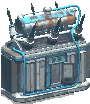
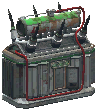
Updated the transformers and some other points

diff --git a/points.js b/points.js
@@ -775,35 +775,35 @@ const points = [
         "xPos": 64,
         "yPos": 64.3
     },
-    { // TR_0
+    {
         "name": "Transformer #1",
-        "description": "Target with <i>sv.target TF_0</i>.<br>The building is chaotically filled with supplies and explosive items. There is only one bench outside.",
-        "related_images" : [],
-        "category": "Transformers",
-        "icon": "./icons/transformer0.png",
-        "positioning": "positioned_on_top",
-        "xPos": 396.7,
-        "yPos": 199.4
-    },
-    { // TR_1
-        "name": "Transformer #2",
-        "description": "Target with <i>sv.target TF_1</i>.<br>Some trash lays around. A shelf and two supply boxes are in the building. There are two benches outside.",
+        "description": "Target with <i>sv.target TF_1</i>.<br>Supplies and explosive items are strewn throughout the building. Inside, you can find some partially-filled gas cans, a toolbox, and a lighter and molotov recipe on the desk.",
         "related_images" : [],
         "category": "Transformers",
         "icon": "./icons/transformer1.png",
         "positioning": "positioned_on_top",
-        "xPos": -550,
-        "yPos": 232.3
+        "xPos": 396.1,
+        "yPos": 200
     },
-    { // TR_2
-        "name": "Transformer #3",
-        "description": "Target with <i>sv.target TF_2</i>.<br>There is trash strewn about outside and the building is filled with garbage. There are two benches outside.",
+    {
+        "name": "Transformer #2",
+        "description": "Target with <i>sv.target TF_2</i>.<br>Some trash lays around. You can find scrap and some almost-full gas cans inside. There are two benches outside.",
         "related_images" : [],
         "category": "Transformers",
         "icon": "./icons/transformer2.png",
         "positioning": "positioned_on_top",
-        "xPos": -399.3,
-        "yPos": -473.6
+        "xPos": -546,
+        "yPos": 234
+    },
+    {
+        "name": "Transformer #3",
+        "description": "Target with <i>sv.target TF_3</i>.<br>Garbage litters the area and the door is boarded up, which forces you to enter with a carefully-placed crouch jump, a crowbar, or by using the vent on the side of the building. A full gas can and some batteries can be found in the supply room.",
+        "related_images" : [],
+        "category": "Transformers",
+        "icon": "./icons/transformer3.png",
+        "positioning": "positioned_on_top",
+        "xPos": -396.5,
+        "yPos": -480.1
     },
     // Halloween Pumpkins
     {
@@ -958,16 +958,6 @@ const points = [
         "yPos": 22.5
     },
     {
-        "name": "Shovel",
-        "description": "Behind the transformer, you can access it by opening the vent on the side of the building.",
-        "related_images" : [],
-        "category": "",
-        "icon": "./icons/shovel.png",
-        "positioning": "positioned_on_top",
-        "xPos": -400.2,
-        "yPos": -473.8
-    },
-    {
         "name": "Cacti",
         "description": "Dug up between the sign pole and the boulder",
         "related_images" : ['./images/cacti_1.png'],
@@ -1056,5 +1046,15 @@ const points = [
         "positioning": "positioned_on_top",
         "xPos": 175.8,
         "yPos": -460.6
+    },
+    {
+        "name": "Bike Helmet",
+        "description": "The bike helmet protects your head, which can decrease your damage taken from impacts. You can reach it by climbing up or grappeling down the cliff using a hook.",
+        "related_images" : ['./images/helmet1.png', './images/helmet2.png', './images/helmet3.png'],
+        "category": "",
+        "icon": "./icons/helmet2.png",
+        "positioning": "positioned_on_top",
+        "xPos": -50.6,
+        "yPos": 630
     }
 ]

diff --git a/lines.js b/lines.js
@@ -14,20 +14,20 @@ const lines = [
         "linethickness": 2,
         "coordinates": [[224, 476.5], [229.9, 478], [235.5, 480.5], [241.2, 482.3], [251, 489.5], [254.9, 494.3], [261.6, 504.4], [266.8, 515.4], [270, 526.9], [276, 526.9], [284.5, 535.7], [279.3, 546.4], [277.7, 552.5], [279.6, 558.2], [279.2, 564.2], [280.4, 570.2], [278.7, 576], [274, 580], [262.3, 582.5], [258, 586.8], [250.9, 596.7], [246.2, 600.6], [238.1, 609.7], [234.7, 615], [229, 617.2], [223, 617.6], [211.7, 613.5], [205.8, 612.6], [194.5, 608], [188.5, 608.3], [188, 602.4], [183.3, 598.5], [172.6, 593.4], [169.2, 588.6], [164.6, 584.7], [159.5, 581.8], [152.1, 572.6], [149, 561], [146.8, 555.4], [143.8, 550.4], [142.1, 544.6], [142.1, 538.8], [143.7, 526.8], [145.1, 521], [147.1, 515.6], [153.5, 505.4], [157.9, 501.2], [159.8, 495.6], [163.7, 491], [168.5, 487.5], [172.7, 482.9], [178.5, 483.7], [183.8, 486.4], [189.8, 485.7], [201, 481], [206.3, 478], [218, 476], [224, 476.5]]
     },
-    { // TR_0
-        "color": "rgb(81, 83, 80)",
-        "linethickness": 2,
-        "coordinates": [[64, 64.3], [72.1, 71.5], [174.8, 66.8], [279.8, 67.3], [313.7, 131.2], [388.9, 196.8]]
-    },
     { // TR_1
         "color": "rgb(81, 83, 80)",
         "linethickness": 2,
-        "coordinates": [[64, 64.3], [49, 71.5], [-92.1, 79.9], [-214.7, 167.5], [-319.8, 254.1], [-426, 276.5], [-557.7, 237.5]]
+        "coordinates": [[64, 64.3], [72.1, 71.5], [174.8, 66.8], [279.8, 67.3], [313.7, 131.2], [400.9, 200.1]]
     },
     { // TR_2
         "color": "rgb(81, 83, 80)",
         "linethickness": 2,
-        "coordinates": [[64, 64.3], [63.4, 51.1], [121.8, -43.5], [155.7, -132.5], [158.1, -243.3], [39.9, -290.7], [-58.5, -299.4], [-171.9, -248.1], [-227, -313.9], [-324.2, -345.6], [-406, -466.8]]
+        "coordinates": [[64, 64.3], [49, 71.5], [-92.1, 79.9], [-214.7, 167.5], [-319.8, 254.1], [-426, 276.5], [-541.3, 233.9]]
+    },
+    { // TR_3
+        "color": "rgb(81, 83, 80)",
+        "linethickness": 2,
+        "coordinates": [[64, 64.3], [63.4, 51.1], [121.8, -43.5], [155.7, -132.5], [158.1, -243.3], [39.9, -290.7], [-58.5, -299.4], [-171.9, -248.1], [-227, -313.9], [-324.2, -345.6], [-391.8, -480]]
     },
     { // Corner Fence
         "color": "black",

diff --git a/changelog.html b/changelog.html
@@ -88,6 +88,8 @@ Next up, I really want to work on cleaning up the points UI and rewriting the po
 
 <span class="time">5/21/2024 1716344276865</span>: Cleaned up and organized some things. Split the main script into 3 different scripts (never done this before, don't know how it'll behave), and added points for the furfur ritual pieces. Some other mild changes, updates to some point descriptions, deleted some old unused files, prototyped a new points menu (not included here), and got rid of some inline event listeners in the main webpage.<br><br>
 
+<span class="time">8/13/2024 1723602973169</span>: New updates and new changes. Added a point for the bike helmet in the southern cliffs and updated all the transformers descriptions and icons. Also removed the shovel at transformer 3 because I could not find it. I will be updating the tiles soon.<br><br>
+
 <hr>
 Features/bugs to add/fix:<br>
 > Add a favicon?<br>
@@ -102,14 +104,13 @@ Features/bugs to add/fix:<br>
 > Add next and previous buttons on the image preview (to accommodate touch screen users)<br>
 > A small field where a user can input their own coordinates and get a marker on the map of where they are<br>
 > Locations of papers<br>
-> Show what category the point is in in the information tab.<br>
+> Show what category the point is in the information tab.<br>
 > Little tab placed above points when you click on them.<br>
 > Points in the points tab should be clickable. Clicking them should open the information tab and show the indicator tab above the point.<br>
 > A selected point should have its z-index changed so it lays on top of all other points<br>
 > Be able to mark spoiler text, similar to discord<br>
 > I could add points for various event locations, like what I did with the picnic<br>
 > <b>Major rework of points lines and references code needed.</b><br>
-> Setting to swap satellite dish names to the old ones in a settings menu?<br>
 > A button to minimize the sidebar
 </div>
 <script>
